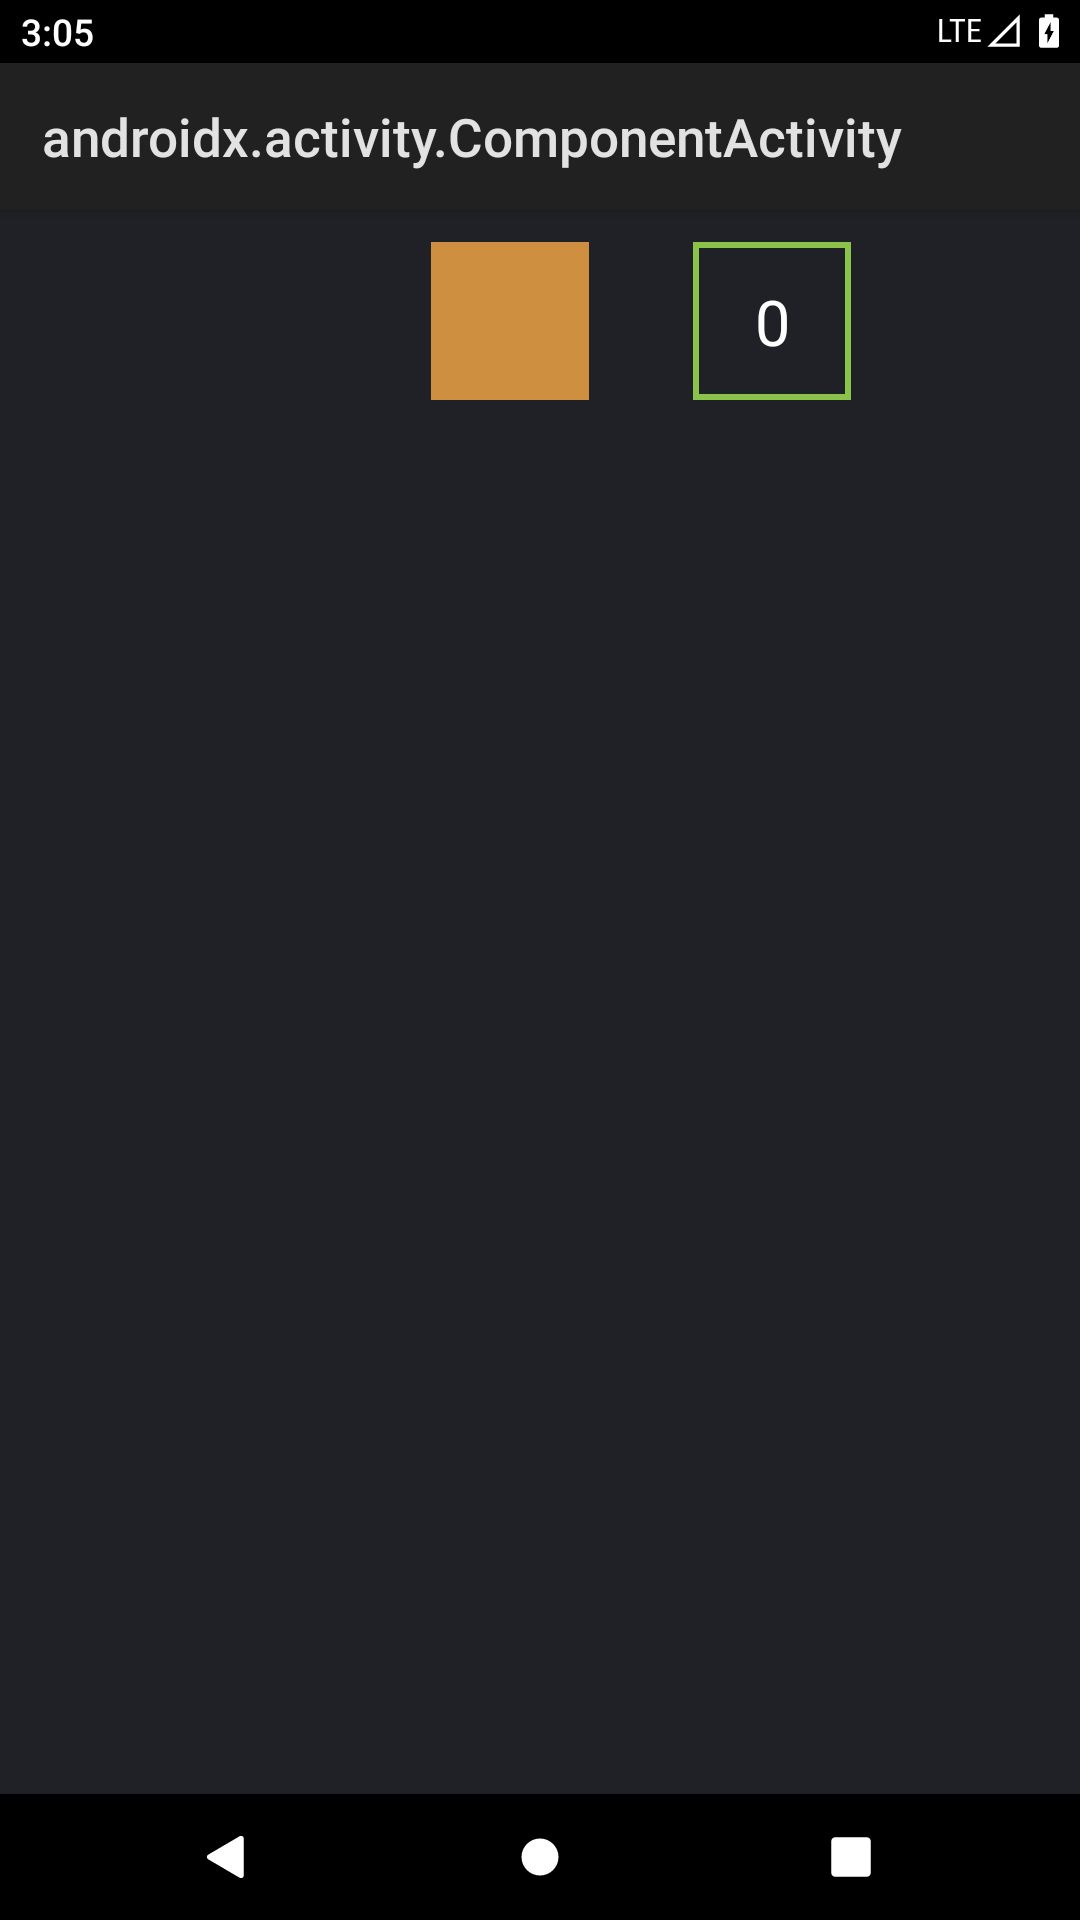
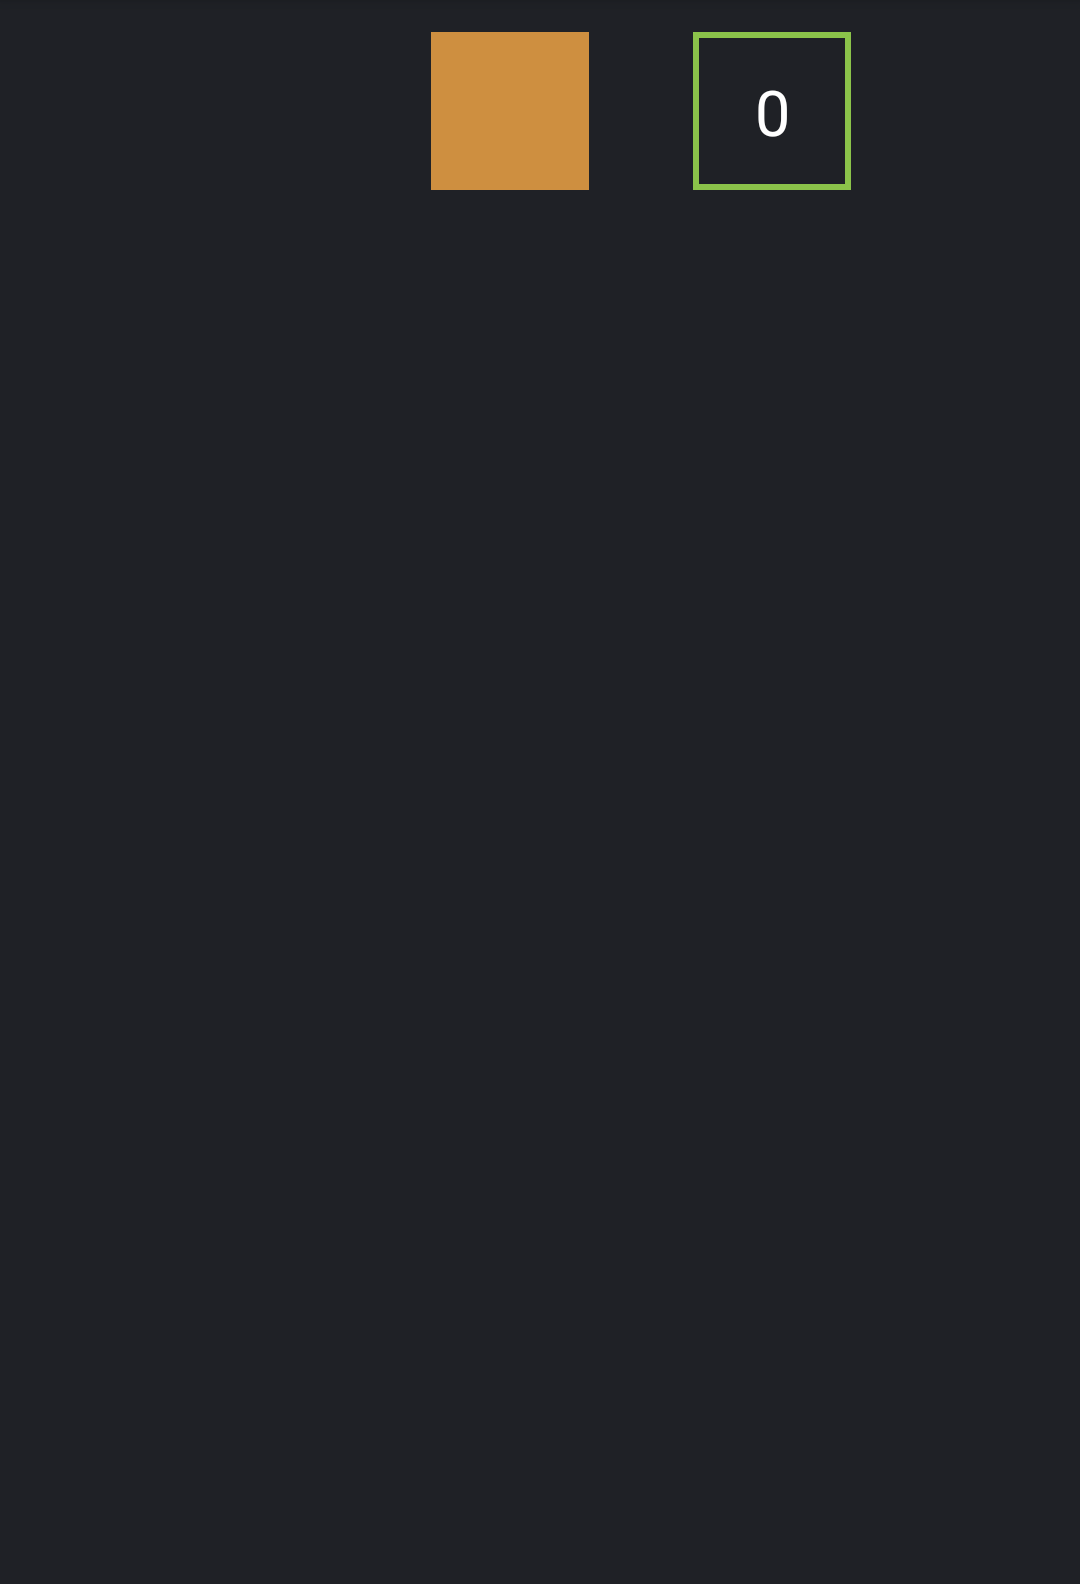
Capture root instead of whole screen

Changed region(s): [[0.0, 0.0, 1.0, 0.2165], [0.0, 0.928, 1.0, 1.0]]

diff --git a/appyx-interactions/android-ui-test/src/androidTest/java/com/bumble/appyx/interactions/ui/checks/TestDriveExperimentTest.kt b/appyx-interactions/android-ui-test/src/androidTest/java/com/bumble/appyx/interactions/ui/checks/TestDriveExperimentTest.kt
@@ -9,8 +9,11 @@ import androidx.compose.runtime.remember
 import androidx.compose.runtime.rememberCoroutineScope
 import androidx.compose.ui.Modifier
 import androidx.compose.ui.geometry.Offset
+import androidx.compose.ui.graphics.asAndroidBitmap
 import androidx.compose.ui.platform.LocalDensity
+import androidx.compose.ui.test.captureToImage
 import androidx.compose.ui.test.junit4.createComposeRule
+import androidx.compose.ui.test.onRoot
 import androidx.compose.ui.unit.Density
 import androidx.compose.ui.unit.dp
 import androidx.test.core.app.takeScreenshot
@@ -81,7 +84,10 @@ class TestDriveExperimentTest {
 
         composeTestRule.mainClock.advanceTimeBy(500)
 
-        takeScreenshot()
+        composeTestRule
+            .onRoot()
+            .captureToImage()
+            .asAndroidBitmap()
             .writeToTestStorage("${javaClass.simpleName}_${nameRule.methodName}")
     }
 
@@ -131,7 +137,10 @@ class TestDriveExperimentTest {
 
         composeTestRule.mainClock.advanceTimeBy(1000)
 
-        takeScreenshot()
+        composeTestRule
+            .onRoot()
+            .captureToImage()
+            .asAndroidBitmap()
             .writeToTestStorage("${javaClass.simpleName}_${nameRule.methodName}")
     }
 }
